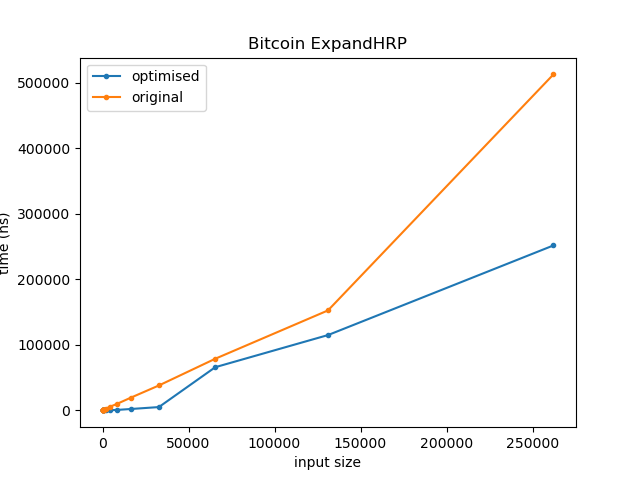
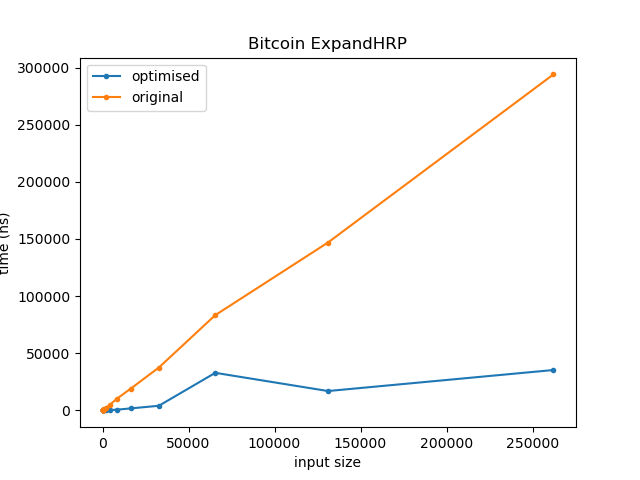
Generate strings outside benchmark loop

diff --git a/queries/benchmarks/bitcoin_SwapBase64.cc b/queries/benchmarks/bitcoin_SwapBase64.cc
@@ -83,9 +83,10 @@ std::u8string opt_SwapBase64(const std::u8string& from)
 }
 
 static void optimised(benchmark::State& state) {
+  auto s = std::u8string(state.range(0), 'A');
   // Code inside this loop is measured repeatedly
   for (auto _ : state) {
-    auto r = opt_SwapBase64(std::u8string(state.range(0), 'A'));
+    auto r = opt_SwapBase64(s);
     // Make sure the variable is not optimized away by compiler
     benchmark::DoNotOptimize(r);
   }
@@ -94,9 +95,10 @@ static void optimised(benchmark::State& state) {
 BENCHMARK(optimised)->RangeMultiplier(2)->Range(8, 8<<21);
 
 static void original(benchmark::State& state) {
+  auto s = std::string(state.range(0), 'A');
   // Code inside this loop is measured repeatedly
   for (auto _ : state) {
-    auto r = orig_SwapBase64(std::string(state.range(0), 'A'));
+    auto r = orig_SwapBase64(s);
     // Make sure the variable is not optimized away by compiler
     benchmark::DoNotOptimize(r);
   }
@@ -105,9 +107,10 @@ static void original(benchmark::State& state) {
 BENCHMARK(original)->RangeMultiplier(2)->Range(8, 8<<21);
 
 static void original_vec(benchmark::State& state) {
+  auto s = std::string(state.range(0), 'A');
   // Code inside this loop is measured repeatedly
   for (auto _ : state) {
-    auto r = orig_vec(std::string(state.range(0), 'A'));
+    auto r = orig_vec(s);
     // Make sure the variable is not optimized away by compiler
     benchmark::DoNotOptimize(r);
   }

diff --git a/queries/benchmarks/bitcoin_expandhrp.cc b/queries/benchmarks/bitcoin_expandhrp.cc
@@ -36,23 +36,25 @@ data2 opt_ExpandHRP(const std::string& hrp)
 }
 
 static void optimised(benchmark::State& state) {
+  auto s = std::string(state.range(0), 'A');
   // Code inside this loop is measured repeatedly
   for (auto _ : state) {
-    auto created_string = opt_ExpandHRP(std::string(state.range(0), 'A'));
+    auto created_string = opt_ExpandHRP(s);
     // Make sure the variable is not optimized away by compiler
     benchmark::DoNotOptimize(created_string);
   }
 }
 // Register the function as a benchmark
-BENCHMARK(optimised)->RangeMultiplier(2)->Range(8, 8<<12);
+BENCHMARK(optimised)->RangeMultiplier(2)->Range(8, 8<<15);
 
 static void original(benchmark::State& state) {
+  auto s = std::string(state.range(0), 'A');
   // Code inside this loop is measured repeatedly
   for (auto _ : state) {
-    auto created_string = orig_ExpandHRP(std::string(state.range(0), 'A'));
+    auto created_string = orig_ExpandHRP(s);
     // Make sure the variable is not optimized away by compiler
     benchmark::DoNotOptimize(created_string);
   }
 }
 // Register the function as a benchmark
-BENCHMARK(original)->RangeMultiplier(2)->Range(8, 8<<12);
+BENCHMARK(original)->RangeMultiplier(2)->Range(8, 8<<15);
